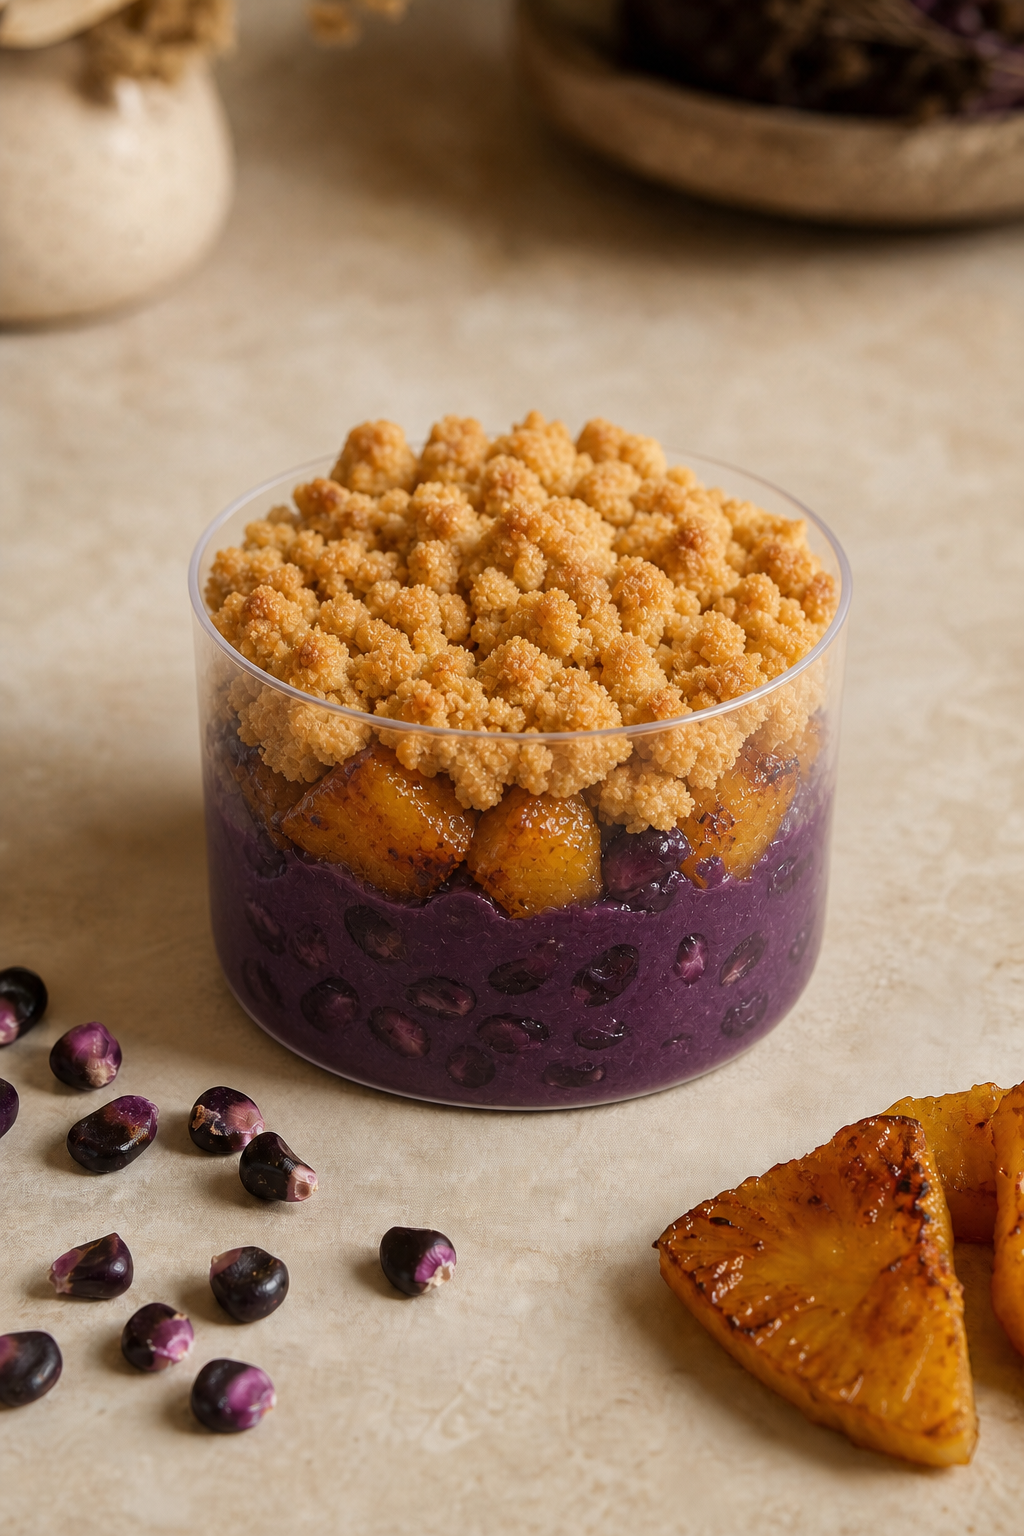
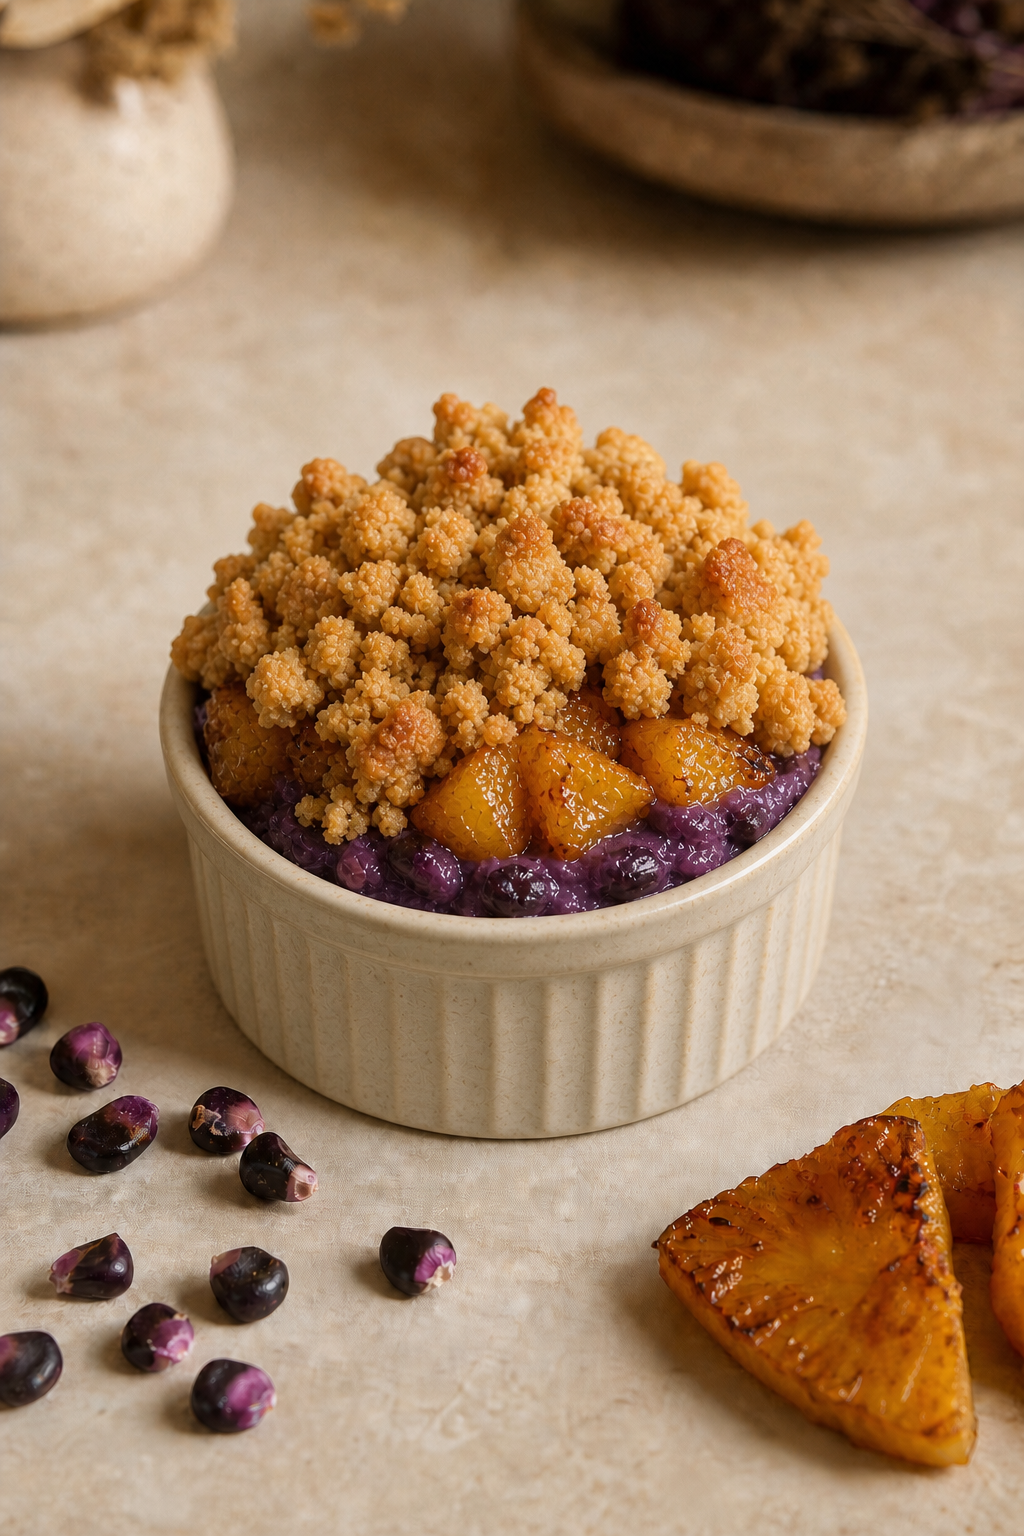
Refinar presentacion de postres destacados

diff --git a/index.html b/index.html
@@ -48,7 +48,7 @@
   <main>
     <section class="hero" id="inicio"><video class="hero-video" autoplay muted loop playsinline poster="roll-canela.jpeg" aria-hidden="true"><source src="https://videos.pexels.com/video-files/8477950/8477950-hd_1920_1080_24fps.mp4" type="video/mp4"></video><div class="hero-copy"><div class="eyebrow" style="color:#f6c6d5">Pastelería peruano-francesa</div><h1>Un dulce viaje entre <em>Lima</em> y París.</h1><p>Cada postre nace para convertirse en un recuerdo. Elaborado con técnica francesa, ingredientes cuidadosamente elegidos y el corazón de la cocina peruana.</p><a class="button" href="#dulces">Explorar la colección</a></div><span class="hero-note">Hecho artesanalmente en Lima</span></section>
     <section class="intro" id="historia"><div><span class="eyebrow">Sobre mí</span><h2>Pastelera, emprendedora y creadora de Le Miski.</h2></div><p>Soy Marisol Rodríguez, pastelera, emprendedora y fundadora de Le Miski. Creé este proyecto para compartir postres hechos con dedicación, técnica y sabores que conectan con nuestras raíces. Cada receta une mi pasión por la pastelería francesa con el cariño y la creatividad del Perú.</p></section>
-    <section class="signature" id="dulces"><div class="signature-head"><div><span class="eyebrow">Favoritos de la casa</span><h2 class="section-title">Pequeñas obras de antojo.</h2></div><a href="carta.html" class="button" style="background:var(--ink);color:#fff">Ver carta completa</a></div><div class="product-grid"><article class="card"><img src="profiterol-craquelin.png" alt="Profiterol craquelin relleno de crema de vainilla" /><div class="card-body"><div><h3>Profiterol craquelin</h3><p>Craquelin crujiente y crema diplomática de vainilla, en un bocado francés irresistible.</p></div><span class="tag">Favorito</span></div></article><article class="card"><img src="crumble-maiz-morado.png" alt="Crumble de maíz morado y piña caramelizada" /><div class="card-body"><div><h3>Crumble de maíz morado</h3><p>Maíz morado, piña caramelizada y un crumble dorado para un contraste inolvidable.</p></div><span class="tag">Especial</span></div></article></div></section>
+    <section class="signature" id="dulces"><div class="signature-head"><div><span class="eyebrow">Favoritos de la casa</span><h2 class="section-title">Pequeñas obras de antojo.</h2></div><a href="carta.html" class="button" style="background:var(--ink);color:#fff">Ver carta completa</a></div><div class="product-grid"><article class="card"><img src="profiterol-craquelin.png" alt="Profiterol clásico francés relleno de vainilla amazónica" /><div class="card-body"><div><h3>Profiterol craquelin</h3><p>Clásico francés relleno de vainilla amazónica, con un delicado toque de crema como decoración.</p></div><span class="tag">Favorito</span></div></article><article class="card"><img src="crumble-maiz-morado.png" alt="Crumble de maíz morado y piña caramelizada" /><div class="card-body"><div><h3>Crumble de maíz morado</h3><p>Mazamorra de maíz morado, piña caramelizada y crumble dorado en una presentación irresistible.</p></div><span class="tag">Especial</span></div></article></div></section>
     <section class="experiences" id="experiencias"><div class="experiences-head"><div><span class="eyebrow">Experiencias Le Miski</span><h2 class="section-title">Más que un postre: un momento para recordar.</h2></div><p>Creá, regalá y descubrí sabores con una guía que entiende cada ocasión.</p></div><div class="experience-grid"><article class="experience"><div><span class="eyebrow">01 · Recomendador</span><h3>Encuentra tu momento miski.</h3><p>Cuéntale a Miska para qué ocasión buscas algo dulce y te recomienda una selección.</p></div><button data-miska-go="quiz">Quiero mi recomendación</button></article><article class="experience"><div><span class="eyebrow">02 · Regalos</span><h3>Regala un momento miski.</h3><p>Elige un dulce, una fecha y una dedicatoria para sorprender a alguien especial.</p></div><button data-miska-go="gift">Preparar un regalo</button></article><article class="experience"><div><span class="eyebrow">03 · Crea</span><h3>Diseña tu postre.</h3><p>Combina una base francesa con el sabor peruano que más te inspira.</p></div><button data-miska-go="design">Crear el mío</button></article><article class="experience"><div><span class="eyebrow">04 · Eventos</span><h3>Tu mesa dulce en minutos.</h3><p>Indica invitados y estilo; recibe una propuesta inicial para tu celebración.</p></div><button data-miska-go="event">Planificar evento</button></article><article class="experience"><div><span class="eyebrow">05 · Drop semanal</span><h3>El Miski de la semana.</h3><p>Una edición especial de temporada, creada para probar algo nuevo cada semana.</p></div><button data-miska-go="menu">Descubrir el drop</button></article><article class="experience"><div><span class="eyebrow">06 · Club</span><h3>Club del antojo.</h3><p>Una caja de degustación mensual, acceso anticipado y sabores exclusivos.</p></div><button data-miska-go="club">Me interesa el club</button></article></div></section><section class="origin"><span class="eyebrow">De Lima a París</span><h2 class="section-title">Sabores con una historia propia.</h2><div class="origin-grid"><article class="origin-card"><span class="eyebrow">Lúcuma + diplomática</span><b>Suave y dorada</b><p>Una fruta peruana cremosa se encuentra con una técnica francesa ligera y sedosa.</p></article><article class="origin-card"><span class="eyebrow">Maracuyá + merengue</span><b>Brillo tropical</b><p>Acidez luminosa, merengue italiano y una textura que se queda en la memoria.</p></article><article class="origin-card"><span class="eyebrow">Chancaca + canela</span><b>Abrazo de casa</b><p>Sabores familiares reinterpretados en postres delicados y contemporáneos.</p></article></div></section><section class="story"><div><span class="eyebrow">Hecho con intención</span><h2>Ingredientes que cuentan historias.</h2></div><p>Del pistacho intenso a las especias que perfuman la cocina, cada receta encuentra un equilibrio entre lo familiar y lo inesperado. Porque los mejores postres no solo se prueban: se recuerdan.</p></section>
     <section class="cta" id="pedidos"><span class="eyebrow">Pedidos y momentos dulces</span><h2>¿Listo para probar algo <em>miski</em>?</h2><a class="button" href="https://wa.me/" target="_blank" rel="noopener">Escríbenos por WhatsApp</a></section>
     <section class="carousel" aria-label="Colecciones destacadas"><div class="carousel-head"><div><span class="eyebrow">Explora Le Miski</span><h2 class="section-title">Colecciones que se antojan.</h2></div><p>Desliza para descubrir nuestras creaciones peruanas y francesas. Cada una tiene su propia historia.</p></div><div class="carousel-track"><a class="carousel-card" href="carta.html"><img src="WhatsApp Image 2026-07-18 at 10.11.52 AM.jpeg" alt="Colección Vainilla Le Miski"><div class="carousel-copy"><span class="eyebrow" style="color:#f6c6d5">Colección</span><h3>Vainilla</h3><p>Delicadeza francesa, alma peruana y acabados premium.</p></div></a><a class="carousel-card" href="carta.html"><img src="WhatsApp Image 2026-07-18 at 10.11.52 AM (3).jpeg" alt="Colección Alfajores"><div class="carousel-copy"><span class="eyebrow" style="color:#f6c6d5">Personalizables</span><h3>Alfajores</h3><p>Elige galleta, relleno y presentación para un antojo único.</p></div></a><a class="carousel-card" href="carta.html"><img src="WhatsApp Image 2026-07-18 at 10.11.52 AM (2).jpeg" alt="Colección Crumbles"><div class="carousel-copy"><span class="eyebrow" style="color:#f6c6d5">Frutas & mantequilla</span><h3>Crumbles</h3><p>Texturas doradas y sabores que celebran lo mejor de la temporada.</p></div></a><a class="carousel-card" href="carta.html"><img src="WhatsApp Image 2026-07-18 at 10.11.52 AM (1).jpeg" alt="Colección Pies y tartaletas"><div class="carousel-copy"><span class="eyebrow" style="color:#f6c6d5">Clásicos reinventados</span><h3>Pies & tartaletas</h3><p>Merengue italiano, frutas y bases con inspiración francesa.</p></div></a></div><div class="carousel-hint">Desliza para ver más · Toca una colección para ir a la carta</div></section>
